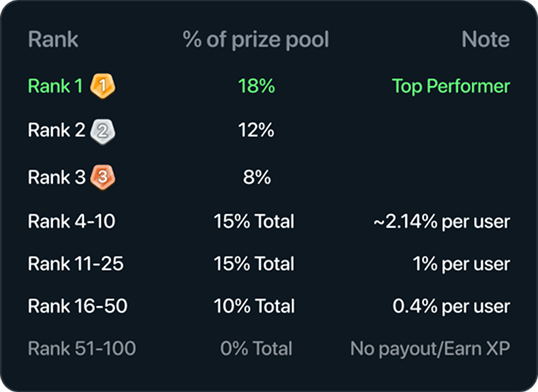
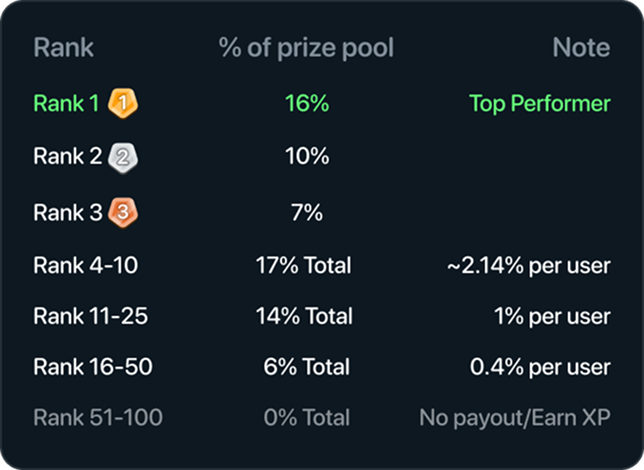
feat: added meta

diff --git a/src/app/layout.tsx b/src/app/layout.tsx
@@ -7,8 +7,34 @@ import QueryProvider from "../components/providers/QueryProvider";
 import ToastProvider from "../components/ui/Toast/ToastProvider";
 
 export const metadata: Metadata = {
-  title: "Winnr",
-  description: "Winnr",
+  title: "Winnr – Fantasy Contests for Crypto Narratives",
+  description:
+    "Winnr is a fantasy-style contest platform where you compete on crypto narratives, memes, and tokens.",
+  metadataBase: new URL("https://app.winnr.fun"),
+  openGraph: {
+    type: "website",
+    locale: "en_US",
+    siteName: "Winnr",
+    title: "Winnr – Fantasy Contests for Crypto Narratives",
+    description:
+      "Winnr is a fantasy-style contest platform where you compete on crypto narratives, memes, and tokens.",
+  },
+  twitter: {
+    card: "summary_large_image",
+    title: "Winnr – Fantasy Contests for Crypto Narratives",
+    description:
+      "YourWinnr is a fantasy-style contest platform where you compete on crypto narratives, memes, and tokens.",
+    creator: "@winnrdotfun",
+  },
+  robots: {
+    index: true,
+    follow: true,
+  },
+  keywords: ["winnr", "waitlist", "waitlist is live", "waitlist is open"],
+  other: {
+    "telegram:image": "https://app.winnr.fun/og.png",
+    "og:image": "https://app.winnr.fun/og.png",
+  },
 };
 
 export default function RootLayout({

diff --git a/src/components/Home/Faqs.tsx b/src/components/Home/Faqs.tsx
@@ -39,10 +39,10 @@ const faqs = [
           </li>
         </ul>
 
-        {/* <ul className="list-disc pl-4 body-sm text-white/60 gap-0.5 flex flex-col mb-4">
+        <ul className="list-disc pl-4 body-sm text-white/60 gap-0.5 flex flex-col mb-4">
           <li>Here is example, if contest is joined by 100 people:</li>
-        </ul> */}
-        {/* <Image src={PriceDistribution} alt="Prize" /> */}
+        </ul>
+        <Image src={PriceDistribution} alt="Prize" />
       </>
     ),
   },
